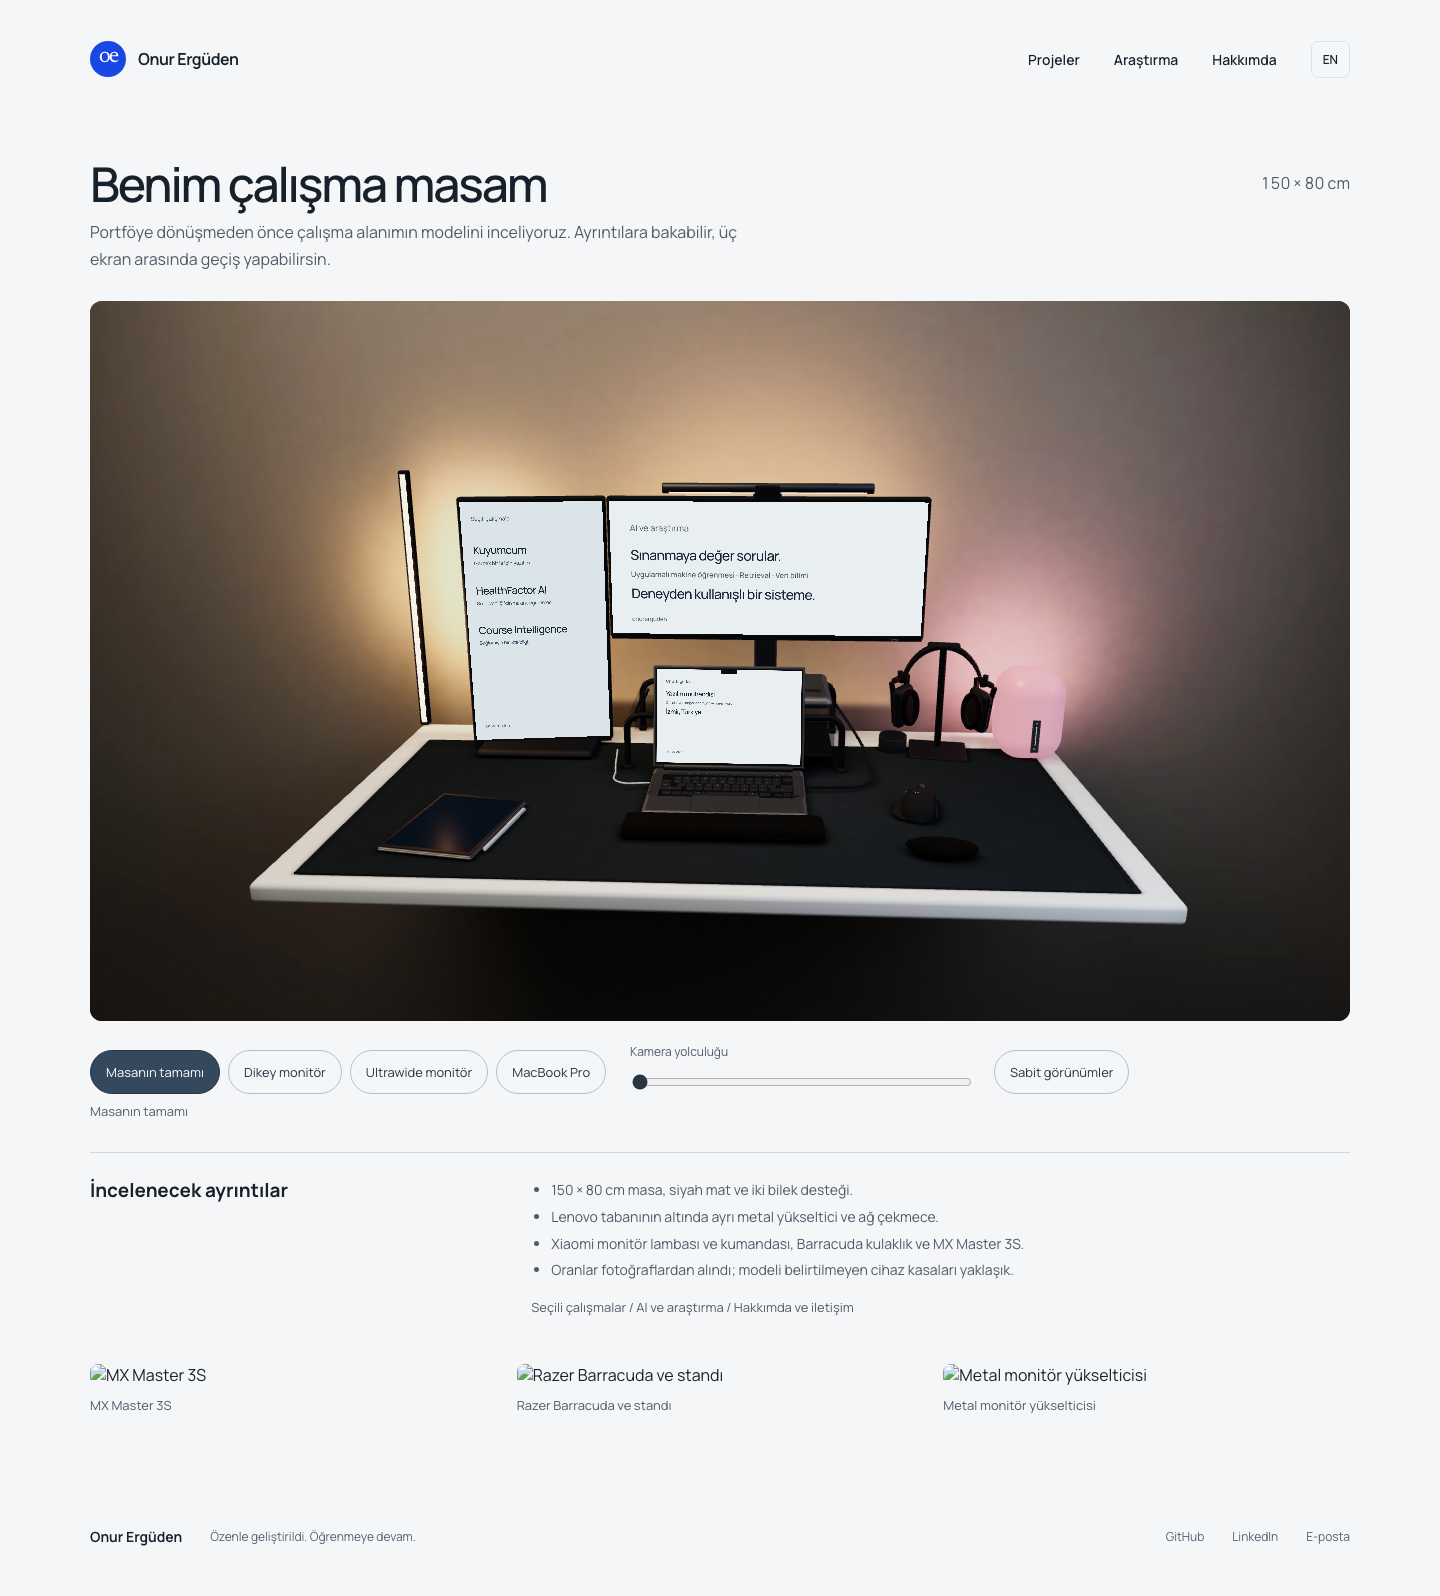
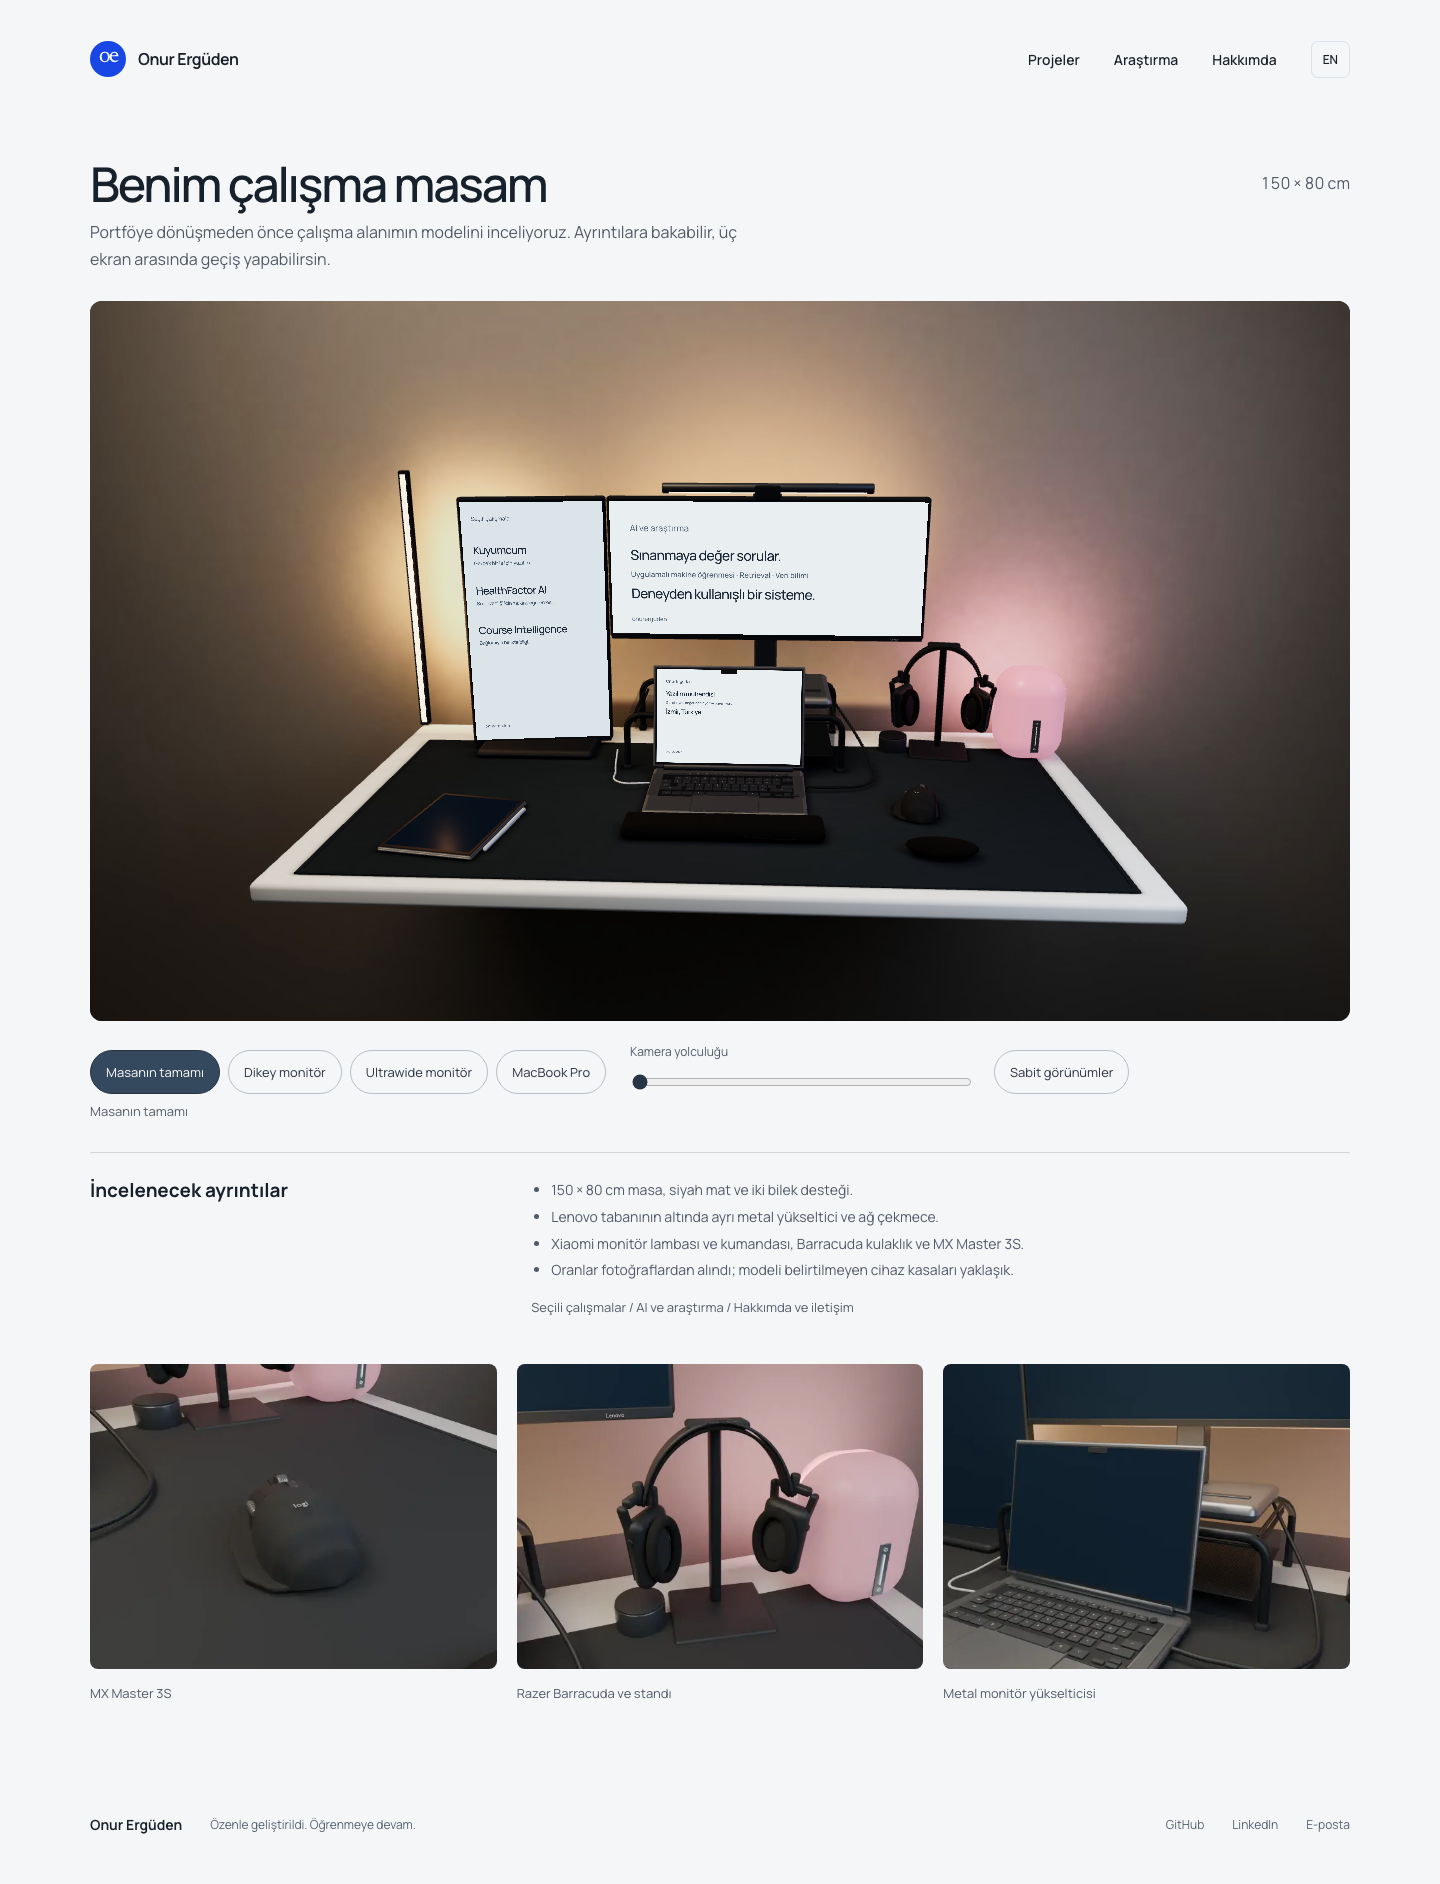
fix: allow revisioned desk images and verify final production review

diff --git a/next.config.ts b/next.config.ts
@@ -1,5 +1,13 @@
 import type { NextConfig } from "next";
+import deskAssets from "./src/lib/desk-assets.json";
 
-const nextConfig: NextConfig = {/* config options here */};
+const nextConfig: NextConfig = {
+  images: {
+    localPatterns: [
+      { pathname: "/**", search: "" },
+      { pathname: "/images/desk/**", search: `?v=${deskAssets.revision}` },
+    ],
+  },
+};
 
 export default nextConfig;

diff --git a/docs/qa/desk/README.md b/docs/qa/desk/README.md
@@ -19,3 +19,5 @@ Physical device thicknesses and exact depth placement remain photo-derived. Fina
 GLB: 398,932 bytes; 73,066 exported triangles; 18 material batches. The wide browser view measures 73,078 rendered triangles and 20 draw calls including viewer geometry. Lazy JavaScript plus the decoder wrapper transferred 272,223 encoded bytes in the local production capture; decoder WASM is recorded separately in the network report. These are local transfer measurements, not deployment or phone performance guarantees.
 
 The active 3D accessibility audit reports zero violations; the capture reports no page errors, no narrow-viewport overflow, and stopped rendering once the stage is offscreen and pending frames have settled.
+
+Final full Playwright run: **39 passed, 3 skipped** across desktop Chromium, mobile Chromium and mobile WebKit. The image optimizer explicitly allows only the current desk revision query; static image loading is checked in both languages and all three browser projects.
